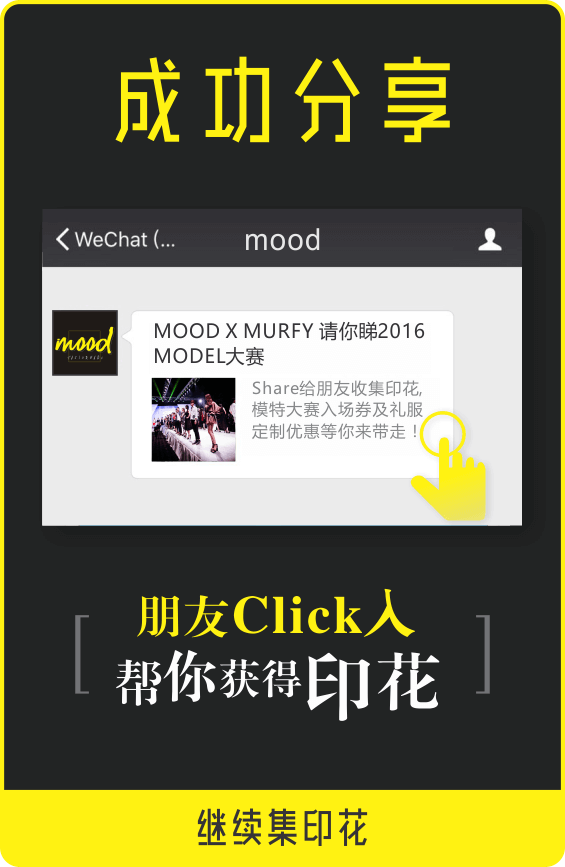
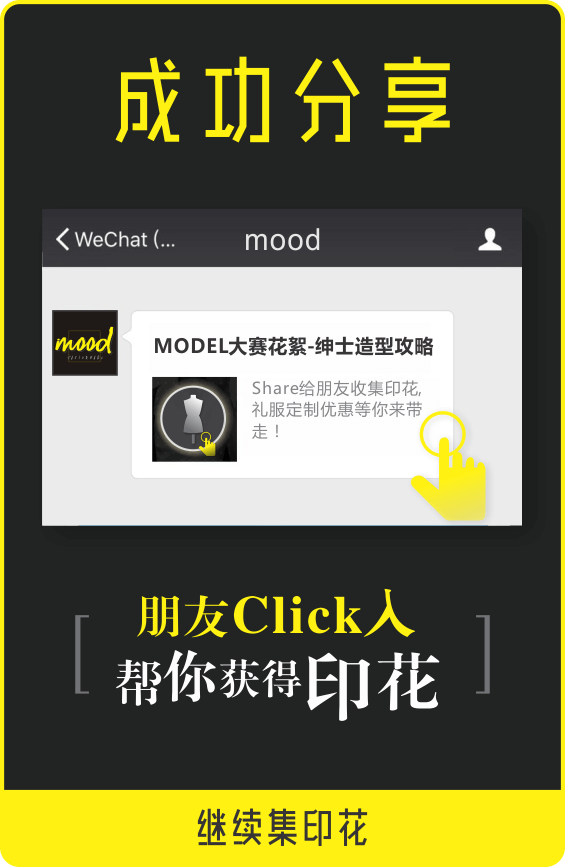
opacity 0

Changed region(s): [[0.2407, 0.3737, 0.7823, 0.5606]]

diff --git a/assets/controllers/easywash.js b/assets/controllers/easywash.js
@@ -170,7 +170,7 @@ function($scope, $http, $timeout, $interval){
             });
             wx.showOptionMenu();
             wx.onMenuShareTimeline({
-                title: '绅士造型攻略-MODEL大赛花絮', // 分享标题
+                title: 'MODEL大赛花絮-绅士造型攻略', // 分享标题
                 link: 'https://open.weixin.qq.com/connect/oauth2/authorize?appid=wxab261de543656952&redirect_uri=http%3A%2F%2Fmood.ibeacon-macau.com%2F'+adString+'%3FsharedBy%3D'+$scope.userId+'%26ad%3D'+adString+'%26pg%3D1&response_type=code&scope='+snsapi+'&state=123',
                 imgUrl: 'http://mood.ibeacon-macau.com/images/easywash/wecast-share.png', // 分享图标
                 success: function() {
@@ -187,7 +187,7 @@ function($scope, $http, $timeout, $interval){
             });
             wx.onMenuShareAppMessage({
 
-              title: '绅士造型攻略-MODEL大赛花絮', // 分享标题
+              title: 'MODEL大赛花絮-绅士造型攻略', // 分享标题
 
               desc: 'SHARE 给朋友收集印花,享MODEL级造型礼遇优惠', // 分享描述
 
